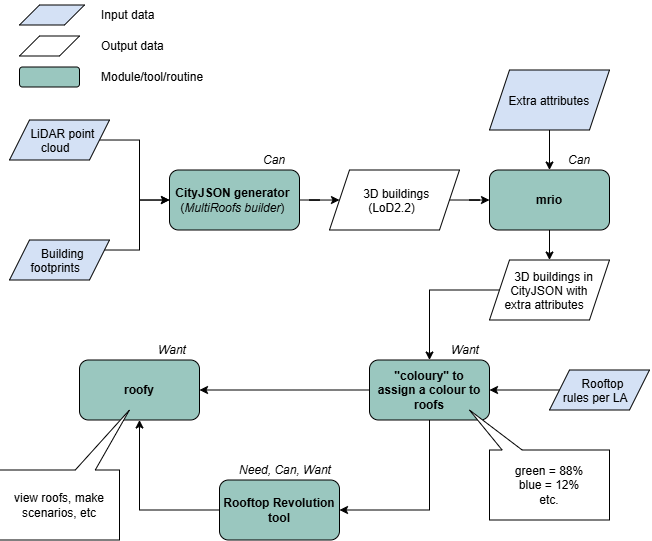
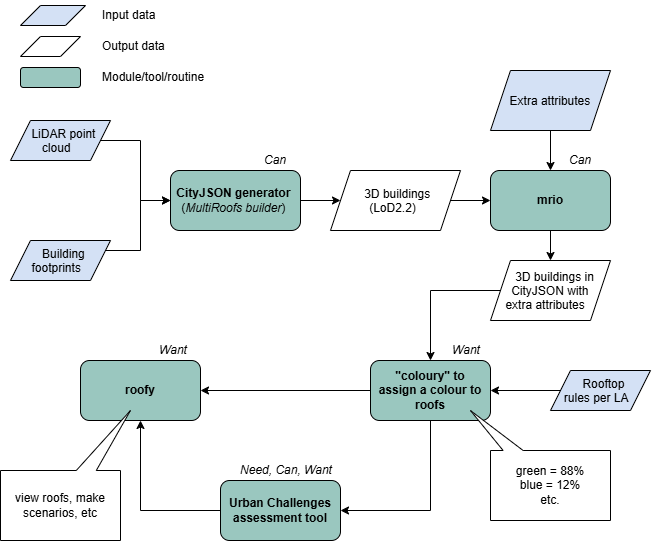
Adding the content for the Urban Challenges section

diff --git a/docs/urban-challenges/index.md b/docs/urban-challenges/index.md
@@ -1,3 +1,160 @@
 # Urban Challenges
 
-TBD
+```{admonition} Learning objectives
+:class: tip
+After reading this page, you will be able to:
+- Name the ten urban challenge categories used in MultiRoofs and their sub-challenges.
+- Explain why the challenges must be adapted to each city and district.
+- Describe how a public authority identifies, localises and quantifies its challenges.
+```
+
+## What "Need" means in MultiRoofs
+
+The MultiRoofs methodology starts from the city's needs. Before deciding what to place on a rooftop, a public authority first clarifies which problems it wants to solve. These problems are the **urban challenges**: the pressures that multifunctional rooftops can help to reduce or adapt to. In the MultiRoofs framework, they represent the demand side against which the potential of rooftops (the "Can") and the willingness of owners (the "Want") are assessed.
+
+## Where the challenges come from
+
+The list of urban challenges builds on a framework first created for the Roofscape project in 2022 by MVRDV and the City of Rotterdam. MultiRoofs extended it after consulting three reference frameworks:
+
+- the [UN Sustainable Development Goals](https://sdgs.un.org/goals),
+- the [European Green Deal](https://commission.europa.eu/strategy-and-policy/priorities-2019-2024/european-green-deal_en),
+- the Rainbow Rooftop Research of the European Creative Rooftop Network.
+
+The result is a taxonomy of **10 urban challenges** divided into **47 sub-challenges**.
+
+## The ten urban challenges at a glance
+
+The challenges fall into three broad dimensions.
+
+**Cities and natural systems.** Climate adaptation and the protection of nature are closely linked. Cities must cope with heat stress, flooding and water scarcity by improving water management and preparing for extreme weather. At the same time, ecological networks are fragmented, so green and blue spaces need to be reconnected and biodiversity protected. Healthier urban ecosystems also make cities more resilient to climate change. Challenges associated to this dimension are the following:
+
+1. Climate adaptation and resilience: Rising temperatures, heavier rainfall and longer dry spells hit cities hard because their sealed, built-up surfaces trap heat and cannot absorb water.
+
+| Sub-challenge | Description |
+|---|---|
+| Urban heat islands | Reduce heat stress caused by sealed surfaces, limited greenery, dense built form and other urban heat sources. |
+| Flood risk | Limit damage and disruption caused by extremely high water levels in seas, lakes, rivers and canals due to heavy rainfall and sea-level rise (fluvial flooding). |
+| Stormwater management | Manage runoff and provide enough buffer capacity during extreme weather to prevent local flooding (pluvial flooding). |
+| Reuse rainwater | Capture rainwater and reuse it, for example for toilets, laundry and irrigation, to reduce pressure on the municipal water supply. |
+| Improve water quality | Prevent pollution of surface water and groundwater from street runoff and wastewater. |
+| Drought resistance | Strengthen resilience to long dry periods by securing water resources and using drought-resistant vegetation (trees, shrubs, grasses and crops). |
+| Lack of water | Ensure reliable access to sufficient clean water, including drinking water, for all urban uses. |
+
+2. Loss of nature and biodiversity: Urban growth and infrastructure break natural habitats into isolated patches, leaving little room for plants and animals to live and move.
+
+| Sub-challenge | Description |
+|---|---|
+| Decline of ecological (green and blue) corridors | Reconnect green spaces so that wildlife can move through the city. |
+| Habitat fragmentation | Reduce the division of natural habitats caused by urban expansion and infrastructure. |
+| Abundance of species | Protect and increase the diversity and population of native species in urban ecosystems. |
+| Food security vs biodiversity | Balance urban food production with the restoration of urban biodiversity. |
+
+**The low-carbon and resource-efficient transition.** Reducing emissions requires more energy-efficient buildings, more renewable energy, and solutions for storage and grid capacity. Ageing infrastructure often cannot meet current demand, let alone the growing needs of electrification and sustainable mobility. Circular economy principles complement this transition by reducing resource use and waste through reuse, recycling and better material flows. Challenges associated to this dimension are the following:
+
+3. Decarbonizing energy systems: Buildings consume a large share of a city’s energy, and replacing fossil fuels with renewables requires space, storage and upgrades that many existing buildings lack.
+
+| Sub-challenge | Description |
+|---|---|
+| Energy-efficient buildings | Reduce energy demand by improving building performance. |
+| Renewable energy adoption | Increase the integration of renewable sources such as solar and wind. |
+| Heat / lack of heat sources | Generate heat from renewable sources, such as ground-coupled heat exchangers, thermal energy storage, residual heat and aquathermal energy. |
+| Lack of storage capacity | Address the limited capacity to store renewable energy and balance fluctuating supply and demand. |
+| Transformation (heritage) restrictions | Overcome regulatory and heritage constraints that limit energy-efficient or renewable technologies in historic buildings and districts. |
+
+4. Aging, unfit, or fragile infrastructure: Many water, energy and transport networks were designed for past needs and struggle to cope with today’s demand, electrification and climate pressures.
+
+| Sub-challenge | Description |
+|---|---|
+| Outdated water, energy, and transport systems | Address ageing infrastructure that is not efficient enough for current or future use. |
+| Lack of (energy) network capacity | Increase the capacity of energy networks (electricity, hydrogen and heat) to meet demand. |
+| Electric grid for EV charging | Strengthen grid capacity and infrastructure for the growing demand for electric vehicle charging. |
+| Protection of cultural heritage blocks climate transition | Balance the preservation of historic buildings with the need for upgrades and climate adaptation. |
+
+5. Transition to circular economy: Cities consume large amounts of materials and water but lack the space and systems needed to collect, repair, reuse and recycle them.
+
+| Sub-challenge | Description |
+|---|---|
+| Water overflow | Promote water reuse and strengthen sustainable urban water cycles. |
+| Low recycling rates | Raise awareness and expand infrastructure to improve recycling performance. |
+| Material reuse gaps | Create stronger systems and platforms for material recovery, repurposing and circular use, such as space for material storage, customised services and repair. |
+| Trash collection systems | Improve waste separation and collection infrastructure to enable higher recycling and reuse rates. |
+
+**Social and institutional conditions.** Mobility, housing, health and equality determine whether the transition benefits everyone. Sustainable mobility reduces car dependency and frees public space. Affordable housing addresses unequal access to decent living conditions. Health and well-being depend on environmental quality, access to services and social ties, which are unevenly distributed across the population. Governance ties all of this together by coordinating responsibilities, setting rules, securing funding and enabling data-driven decisions. Challenges associated to this dimension are the following:
+
+6. Sustainable and equitable mobility: Car traffic, parking and deliveries occupy much of the limited street space, causing congestion and leaving little room for walking, cycling and public life.
+
+| Sub-challenge | Description |
+|---|---|
+| Traffic congestion | Reduce car dependency and traffic pressure, for example by promoting walking, cycling and public transport. |
+| Poor slow mobility infrastructure | Expand accessible networks for walking, cycling and other forms of active mobility. |
+| Parking demand in public space | Reduce parking needs in public space so that the space can be reclaimed for people and other uses. |
+| Lack of shared mobility services and infrastructure | Introduce sharing systems (bikes, scooters, cars and driverless vehicles) and shared parking hubs. |
+| Space occupancy for logistics/delivery services | Optimise the use of limited street space to accommodate growing urban logistics and deliveries. |
+
+7. Affordable housing: Growing urban populations and rising prices make adequate housing increasingly hard to find, while land for new construction is scarce.
+
+| Sub-challenge | Description |
+|---|---|
+| Housing shortage | Increase housing supply to meet growing demand in urban areas. |
+| Housing mismatch | Align housing types, sizes and locations with the needs of different households. |
+| Affordability crisis | Address rising housing prices and improve access to adequate housing. |
+| Social housing | Provide enough affordable and social housing for vulnerable and low-income groups. |
+| Transformation (heritage) restriction | Balance the preservation of historic buildings with the need for additional housing. |
+
+8. Urban health and well-being: Pollution, noise, a lack of green and sports areas, and social isolation affect the physical and mental health of city residents.
+
+| Sub-challenge | Description |
+|---|---|
+| Poor air quality | Reduce exposure to pollution and improve clean air standards. |
+| Noise pollution | Minimise noise in sensitive areas such as housing, hospitals and schools. |
+| Lack of green space, sport facilities | Expand accessible green areas and facilities that encourage active and healthy lifestyles. |
+| Lack of (public) facilities | Provide accessible public services and facilities that meet community needs, such as schools, childcare, libraries and community centres. |
+| Mental health problems | Support mental health and reduce stress-related conditions in the urban environment. |
+| Loneliness and happiness | Foster social connections and community well-being. |
+
+9. Social inequality and segregation: Access to good services, safe public spaces and healthy environments is unevenly spread, which deepens divisions between neighbourhoods and communities.
+
+| Sub-challenge | Description |
+|---|---|
+| Neighbourhood segregation | Break down social and spatial divisions between neighbourhoods and communities. |
+| Unequal access to services/facilities | Address differences in the availability and quality of essential services, such as schools, childcare, libraries and community centres. |
+| Lack of third spaces, social safety/security | Expand safe and inclusive gathering places. |
+
+10. Governance: Responsibilities are spread across departments and levels of government, and gaps in rules, funding and data make coordinated action difficult.
+
+| Sub-challenge | Description |
+|---|---|
+| Split of competences | Bridge fragmented responsibilities between authorities. |
+| No regulation framework to enforce strategies | Establish and update regulations, and support their enforcement. |
+| Lack of funding | Secure sustainable financial resources and policy support. |
+| No framework for data and monitoring | Create systems to collect, share and monitor data. |
+
+```{note}
+Heritage appears in three challenges. In **Decarbonizing energy systems**, it limits energy upgrades. In **Affordable housing**, it limits extra housing such as rooftop extensions. In **Aging, unfit, or fragile infrastructure**, it slows climate adaptation of historic buildings in general.
+```
+
+## Adapting the challenges to your city
+
+The ten challenges are a general guide to what a city may need to mitigate or adapt to. **They are not a fixed checklist.** Each city has its own urgencies and political agenda, so the meaning and weight of each challenge varies from place to place. Before using the taxonomy, clarify and adapt the definitions so that they are understandable and relevant for the people who will use them in your organisation.
+
+Priorities can also differ within a city. A dense city centre may face heat stress and a lack of green space, while an industrial district may struggle more with water and energy. For this reason, MultiRoofs looks at challenges at both city and district level.
+
+## Identifying your needs: roadmap steps 1 to 3
+
+The first three steps of the [8-step rooftop activation roadmap](../about-multiroofs/index.md) cover the "Need".
+
+**Step 1. Set city-wide priorities.** Select and rank the challenges that matter most for the city as a whole. Combine several sources of evidence: open data, existing policy, expert knowledge, political direction and public opinion.
+
+**Step 2. Translate priorities to districts.** Where relevant, determine which challenges apply to each urban district. District priorities should be consistent with the city-wide priorities so that local action contributes to the broader goals.
+
+**Step 3. Turn challenges into measurable targets.** When data is available, link each challenge to indicators and quantified goals. Many cities already set such goals in their policy documents, for example kWh of renewable energy, m³ of water retention, the number of homes added through rooftop extensions, or the number of plant and animal species. These targets can then be translated into the rooftop area needed for each function.
+
+The [Urban Challenges assessment tool](../tools/challenge_assessment/index.md) supports these steps.
+
+```{admonition} Key takeaways
+:class: important
+- MultiRoofs starts from what the city needs, not from what roofs can hold.
+- Urban challenges are organised in 10 categories and 47 sub-challenges.
+- The taxonomy is a starting point. Each city adapts the definitions and priorities   to its own context, and priorities can differ between districts.
+- Where possible, challenges are quantified into targets so that rooftop interventions can be measured against them.
+```
